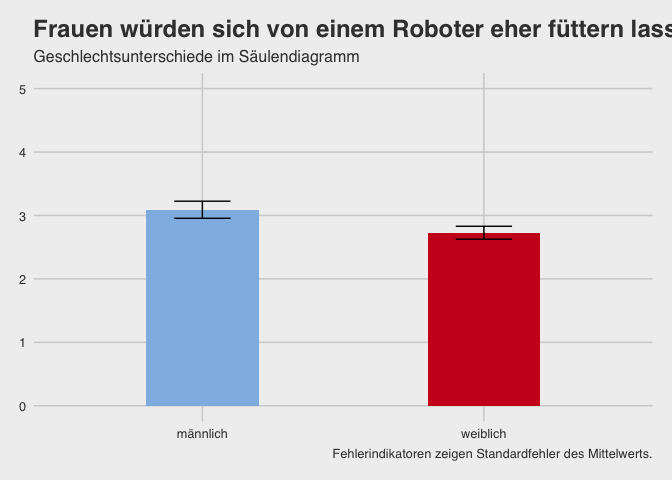
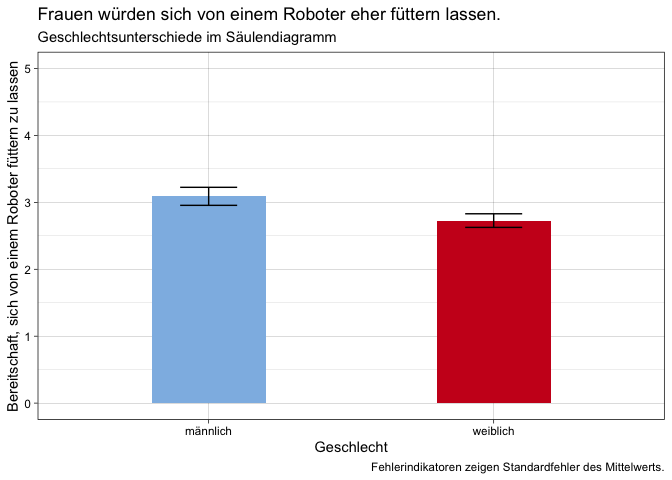
Update Hausaufgabe Diagrammerstellung

Changed region(s): [[0.0, 0.0, 1.0, 1.0]]

diff --git a/MaikeHolle/Diagramm_SchmitzHolle.md b/MaikeHolle/Diagramm_SchmitzHolle.md
@@ -12,7 +12,7 @@
           title = "Frauen würden sich von einem Roboter eher füttern lassen.",
           subtitle = "Geschlechtsunterschiede im Säulendiagramm",
           caption = "Fehlerindikatoren zeigen Standardfehler des Mittelwerts.") +
-     theme_fivethirtyeight() +
+     theme_linedraw() +
       NULL
 
 ![](Diagramm_SchmitzHolle_files/figure-markdown_strict/unnamed-chunk-1-1.png)
